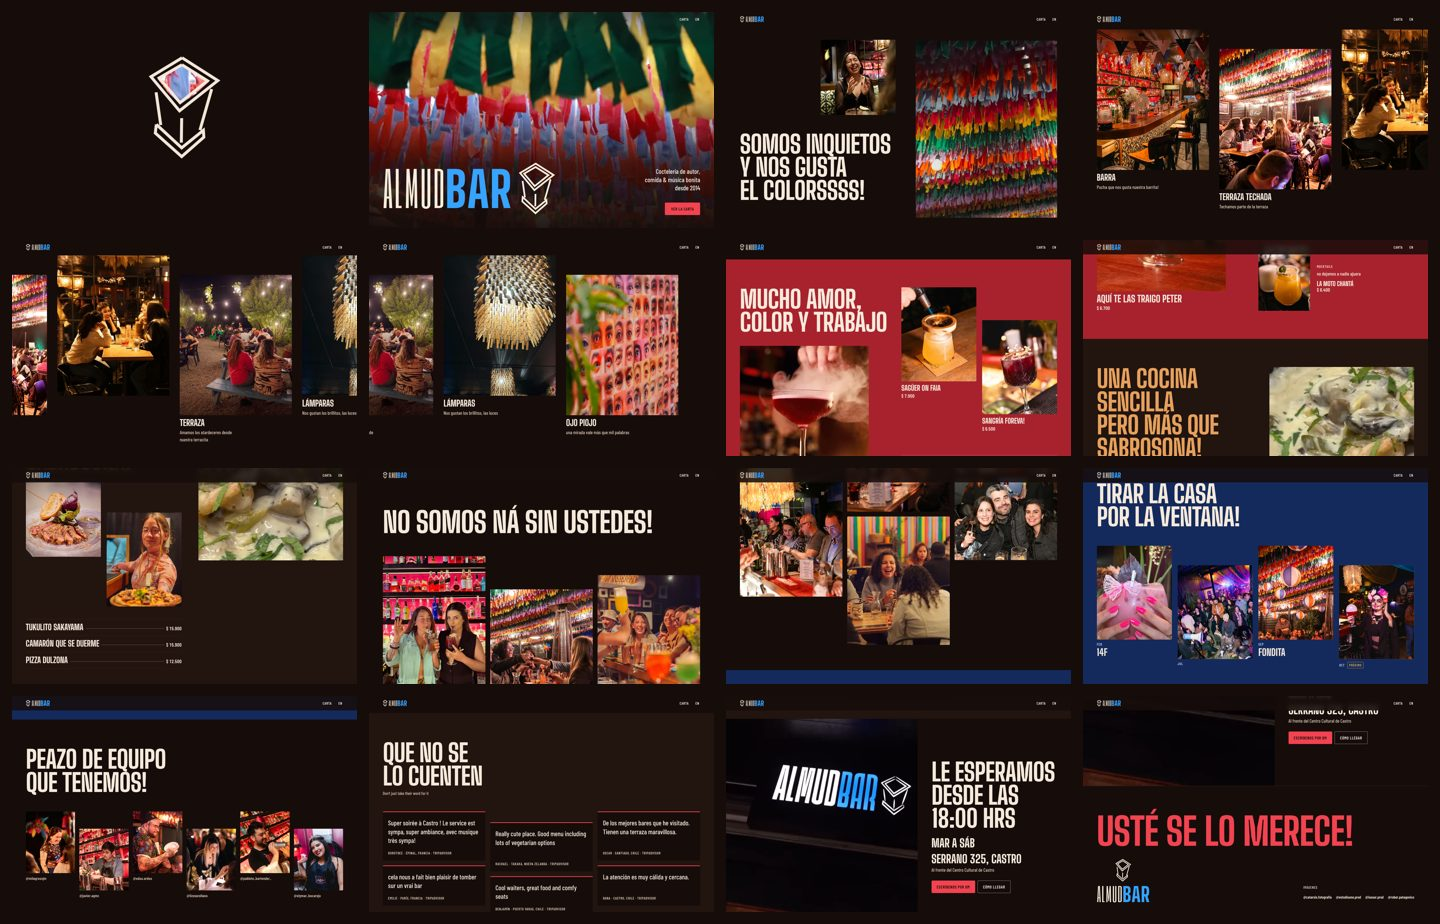
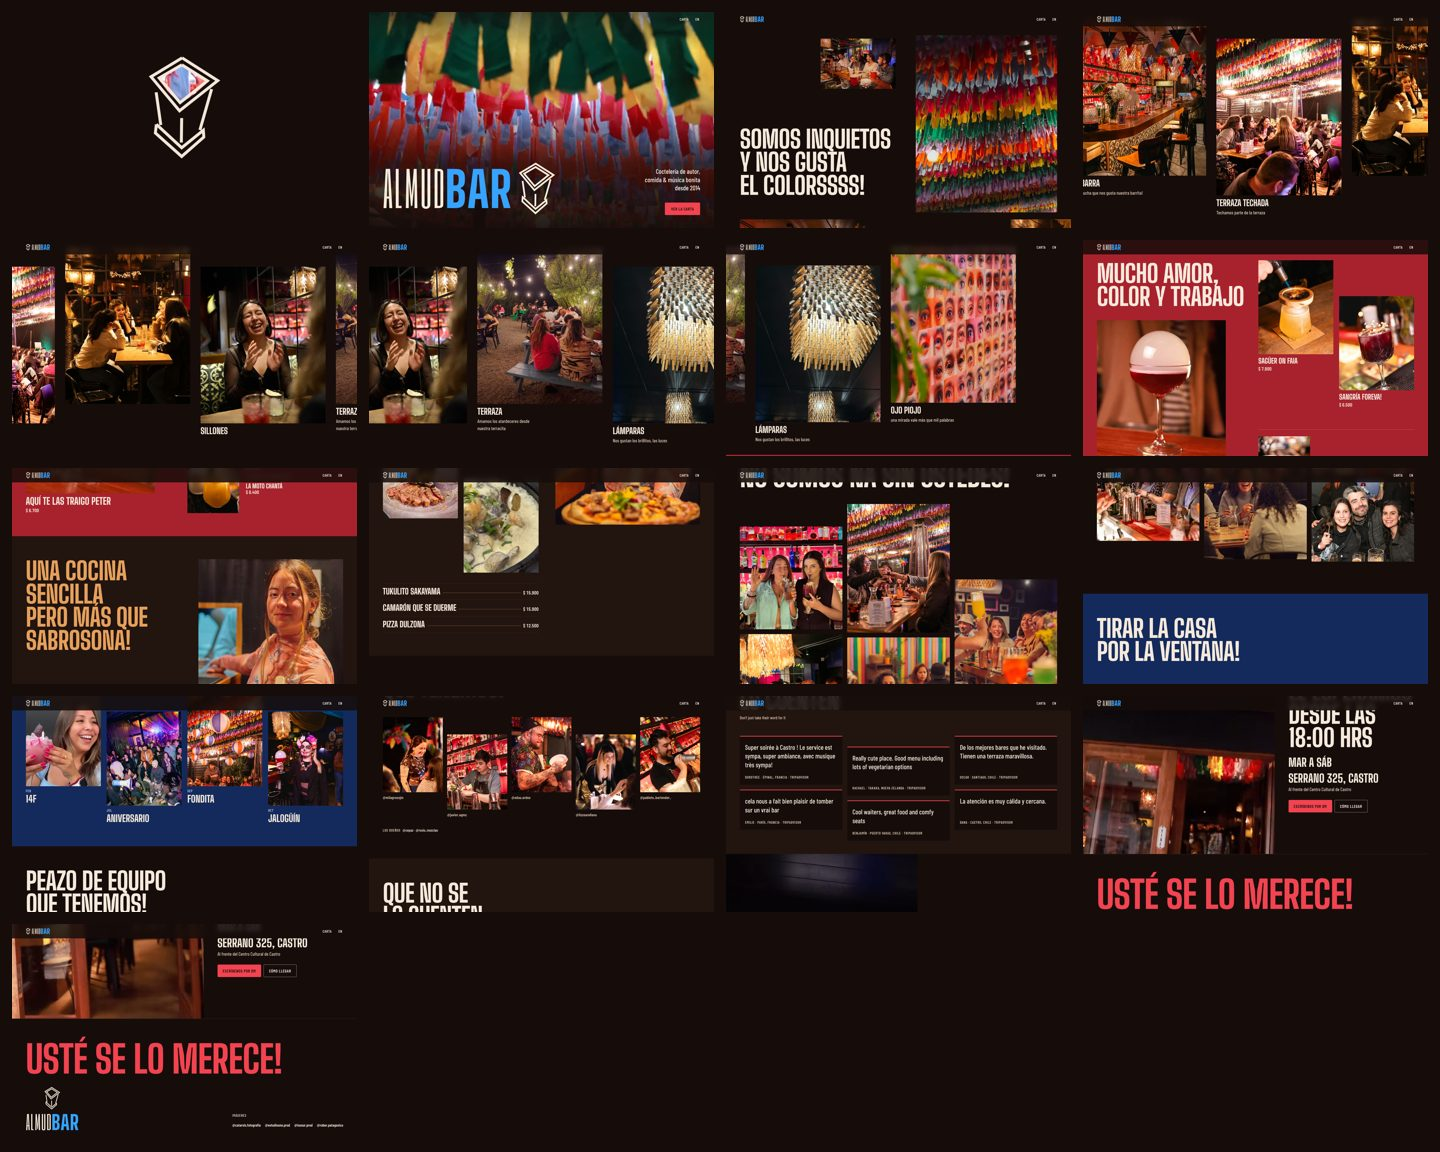
v3 fase 8: cambios del juicio de Carmen aplicados al boceto
Claude-Session: https://claude.ai/code/session_01R7WACHHVHZEdG4bayoWhor

diff --git a/css/v3/site.css b/css/v3/site.css
@@ -110,12 +110,12 @@ html[lang="en"] .gloss--i{display:inline}
 .rin__c{padding-top:14px}
 .rin__n{font:800 30px/1 var(--f-display);text-transform:uppercase;letter-spacing:-.005em}
 .rin__l{margin-top:6px;color:var(--papel-2);max-width:30ch}
-@media (min-width:768px){
+@media (min-width:768px){.rin{flex-basis:44vw}}
+@media (min-width:1024px){
   .lugar__head{grid-template-columns:repeat(12,minmax(0,1fr));column-gap:24px;align-items:end}
   .lugar__txt{grid-column:1/8;grid-row:1;padding-bottom:6vh}
   .lugar__x{display:block;grid-column:4/7;grid-row:1;align-self:start;width:100%;margin-top:-4vh}
   .lugar__v{grid-column:8/13;grid-row:1;max-height:82vh;width:auto;justify-self:end;height:82vh}
-  .rin{flex-basis:44vw}
 }
 @media (min-width:1024px){
   .gs .rincones{height:calc(100vh + 7 * 62vh + 6 * 3vw + 2 * var(--gut) - 100vw + 12vw);margin-top:0;padding-bottom:0}
@@ -169,7 +169,8 @@ html[lang="en"] .gloss--i{display:inline}
 .menu__n{font:800 26px/1.05 var(--f-display);text-transform:uppercase}
 .menu i{flex:1;min-width:16px;border-bottom:2px dotted rgba(229,160,92,.6);transform:translateY(-6px)}
 .menu a:hover .menu__n{color:var(--ambar)}
-@media (min-width:768px){
+@media (min-width:768px) and (max-width:1023px){.comida__v{width:70%}}
+@media (min-width:1024px){
   .comida__g{grid-template-columns:repeat(12,minmax(0,1fr));column-gap:24px;row-gap:0;align-items:start}
   .comida__head{grid-column:1/7;grid-row:1;margin-bottom:48px}
   .comida__v{grid-column:8/13;grid-row:1/4;height:84vh;width:auto;justify-self:end}
@@ -183,7 +184,7 @@ html[lang="en"] .gloss--i{display:inline}
 .quien{background:var(--noche);padding-block:var(--sec);overflow:clip}
 .quien__g{display:grid;grid-template-columns:1fr 1fr;gap:10px;padding:40px var(--gut) 0}
 .col{display:grid;gap:10px;align-content:start}
-.col--2{margin-top:56px}
+.col--2{margin-top:24px}
 .col--3{display:none}
 @media (min-width:768px){
   .quien .ttl{font-size:clamp(72px,8.4vw,120px);max-width:none}

diff --git a/public/css/v3/site.css b/public/css/v3/site.css
@@ -110,12 +110,12 @@ html[lang="en"] .gloss--i{display:inline}
 .rin__c{padding-top:14px}
 .rin__n{font:800 30px/1 var(--f-display);text-transform:uppercase;letter-spacing:-.005em}
 .rin__l{margin-top:6px;color:var(--papel-2);max-width:30ch}
-@media (min-width:768px){
+@media (min-width:768px){.rin{flex-basis:44vw}}
+@media (min-width:1024px){
   .lugar__head{grid-template-columns:repeat(12,minmax(0,1fr));column-gap:24px;align-items:end}
   .lugar__txt{grid-column:1/8;grid-row:1;padding-bottom:6vh}
   .lugar__x{display:block;grid-column:4/7;grid-row:1;align-self:start;width:100%;margin-top:-4vh}
   .lugar__v{grid-column:8/13;grid-row:1;max-height:82vh;width:auto;justify-self:end;height:82vh}
-  .rin{flex-basis:44vw}
 }
 @media (min-width:1024px){
   .gs .rincones{height:calc(100vh + 7 * 62vh + 6 * 3vw + 2 * var(--gut) - 100vw + 12vw);margin-top:0;padding-bottom:0}
@@ -169,7 +169,8 @@ html[lang="en"] .gloss--i{display:inline}
 .menu__n{font:800 26px/1.05 var(--f-display);text-transform:uppercase}
 .menu i{flex:1;min-width:16px;border-bottom:2px dotted rgba(229,160,92,.6);transform:translateY(-6px)}
 .menu a:hover .menu__n{color:var(--ambar)}
-@media (min-width:768px){
+@media (min-width:768px) and (max-width:1023px){.comida__v{width:70%}}
+@media (min-width:1024px){
   .comida__g{grid-template-columns:repeat(12,minmax(0,1fr));column-gap:24px;row-gap:0;align-items:start}
   .comida__head{grid-column:1/7;grid-row:1;margin-bottom:48px}
   .comida__v{grid-column:8/13;grid-row:1/4;height:84vh;width:auto;justify-self:end}
@@ -183,7 +184,7 @@ html[lang="en"] .gloss--i{display:inline}
 .quien{background:var(--noche);padding-block:var(--sec);overflow:clip}
 .quien__g{display:grid;grid-template-columns:1fr 1fr;gap:10px;padding:40px var(--gut) 0}
 .col{display:grid;gap:10px;align-content:start}
-.col--2{margin-top:56px}
+.col--2{margin-top:24px}
 .col--3{display:none}
 @media (min-width:768px){
   .quien .ttl{font-size:clamp(72px,8.4vw,120px);max-width:none}

diff --git a/brand/art-direction-v3.md b/brand/art-direction-v3.md
@@ -42,7 +42,7 @@ Duración total ≈ 2,6 s. Con `prefers-reduced-motion` o sin JS no hay intro: l
 
 ## Ritmo pantalla por pantalla
 
-Alto medido: celular 390×844 ≈ **11,5 pantallas**; escritorio 1440×900 ≈ 14,7 (incluye el recorrido de la galería sticky).
+Alto medido: celular 390×844 ≈ **10,5 pantallas**; escritorio 1440×900 ≈ 15,3 (incluye el recorrido de la galería sticky).
 
 ### Celular (390 px)
 
@@ -83,12 +83,12 @@ Alto medido: celular 390×844 ≈ **11,5 pantallas**; escritorio 1440×900 ≈ 1
 ┌──────────────────────┐ 6 EVENTOS · tinta + fotos · ~1 pant.
 │ TIRAR LA CASA POR LA │
 │ VENTANA!             │ 2×2: FEB 14F · JUL ANIVERSARIO ·
-│ [14F][Aniv.]         │ SEP FONDITA · OCT JALOGÜÍN [PRÓXIMO dorado]
-│ [Fondita][Jalogüín★] │
+│ [14F][Aniv.]         │ SEP FONDITA · OCT JALOGÜÍN (solo mes + nombre)
+│ [Fondita][Jalogüín]  │
 └──────────────────────┘
 ┌──────────────────────┐ 7 EQUIPO · noche · ~0,8 pant.
-│ PEAZO DE EQUIPO QUE  │ swipe de 6 retratos 4:5 con su @
-│ TENEMOS!  [■][■]→    │
+│ PEAZO DE EQUIPO QUE  │ swipe de 5 retratos 4:5 con su @
+│ TENEMOS!  [■][■]→    │ LOS DUEÑOS @cepaz · @rusio_mezclao
 └──────────────────────┘
 ┌──────────────────────┐ 8 RESEÑAS · noche-2 · ~0,8 pant.
 │ QUE NO SE LO CUENTEN │ + glosa EN siempre visible
@@ -131,8 +131,8 @@ Alto medido: celular 390×844 ≈ **11,5 pantallas**; escritorio 1440×900 ≈ 1
            │ [tukulito][pizza ↓]   │                   │
            │ lista carta 3 ítems   │                   │
 5 CON QUIÉN  titular a todo el ancho + 3 columnas a 3 velocidades
-6 EVENTOS    tinta · 4 tarjetas, pares bajan 9vh · próximo en dorado
-7 EQUIPO     6 retratos en fila, pares bajan 8vh
+6 EVENTOS    tinta · 4 tarjetas, pares bajan 9vh · solo mes + nombre
+7 EQUIPO     5 retratos en fila + línea de dueños, pares bajan 8vh
 8 RESEÑAS    grilla 3×2, la columna del medio baja 5vh
 9 DÓNDE    ┌───────────────────────────┬─────────────────┐
            │ loop letrero (100vh)      │ LE ESPERAMOS…   │
@@ -149,7 +149,7 @@ Alto medido: celular 390×844 ≈ **11,5 pantallas**; escritorio 1440×900 ≈ 1
 | 3 | Tragos | muro | papel, muro-2 | `tragos-humo`, `carta-saguer`, `carta-sangria`, `carta-moto` |
 | 4 | Comida | noche-2 | ámbar (titular y puntos) | `comida-cazuela`, `carta-tukulito`, `comida-pizza` |
 | 5 | Con quién | noche | — | 6 fotos `con-quien-*` (4 en celular) |
-| 6 | Eventos | tinta (siempre con foto) | dorado (próximo) | `eventos-14f`, `-12-anos`, `-fondita`, `-jaloguin` |
+| 6 | Eventos | tinta (siempre con foto) | tinta-2 (mes) | `eventos-14f`, `-12-anos`, `-fondita`, `-jaloguin` |
 | 7 | Equipo | noche | papel-2 (@) | 6 retratos `equipo-*` |
 | 8 | Reseñas | noche-2 | muro-rosa (filete) | — |
 | 9 | Dónde | noche | muro-rosa (DM) | `donde-letrero` |
@@ -158,11 +158,23 @@ Alto medido: celular 390×844 ≈ **11,5 pantallas**; escritorio 1440×900 ≈ 1
 ## Tipo y botones (Carmen P)
 Titulares Big Shoulders 800 mayúsculas, 44 px en celular (≤ 3 líneas), tope 120 px en escritorio, lh 0,93. Texto Barlow Condensed 500 18/20 px · 1,5; nada bajo 16 px; rótulos 600 15 px +0,06 em; precios 600 20 px en papel. Botones radio 4 px, 600 17 px, 52 px de alto: **Ver la carta** (portada, sola y a la derecha) · **Escríbenos por DM** y **Cómo llegar** (solo en Cuándo y dónde). Sin RESERVAR.
 
+## Ronda tras el juicio de Carmen (15/20)
+- Eventos: sin «Próximo»; el calendario es solo mes + nombre (recuerdo, en pasado).
+- Acentos: la máscara de cada palabra tiene aire arriba (padding .26 em) y queda `overflow:visible` al terminar; revisado a 320/390/768/1440.
+- Peter: en celular, loop al 62 % con nombre y precio al lado (la copa entera cabe en una pantalla con el titular).
+- Comida: la pizza servida P036 es la imagen principal; la cazuela queda como loop chico, junto al Tukulito.
+- 14F: cuadro de 18,6 s del reel «El 14F estuvo hermoso!» (C3tFEcvJ80x): una clienta riendo con el trago. Reprocesado con `tools/media_v3.py`.
+- El lugar: Sillones (P114) entra al carrusel entre Salón y Terraza, con el rótulo [UI] ‹Sillones› / “Lounge”. La masa del encabezado de escritorio pasa a ser el muro de cuadros (P012).
+- Con quién: la primera foto (P254) va cuadrada y anclada abajo, sin la franja de repisa. En escritorio las columnas se compensan para que terminen parejas.
+- Equipo: sale @elymar_bocarejo (solo hay foto disfrazada). Bajo el carrusel va ‹Los dueños› @cepaz · @rusio_mezclao.
+- Ritmo: padding de sección de 72 px en celular y 96 px en escritorio; El lugar y Comida pasan a dos columnas recién desde 1024 px.
+- Portada celular: el loop arranca en 1,5 s, con el cartelito ALMUD BAR sobre el muro rosa (900 px, 1,35 MB).
+- La portada sigue con logo, claim y ‹Ver la carta›, sin horario ni dirección (decisión del cliente).
+
 ## Decisiones y pendientes
 - Portada: solo logo, claim y ‹Ver la carta› (corrección del cliente); horario y dirección viven en Cuándo y dónde.
 - Comida: las fotos son ambiente y la **lista** nombra los platos, porque no hay foto propia confirmada de la Pizza dulzona (no se inventa la relación foto-plato).
 - Créditos del pie: solo autores usados (@catarsis.fotografia, @estudiouno.prod, @isosur.prod, @rober.patagonico). Salen @tamillanquileo y @dosistudio (sus imágenes no se usan).
 - Mapa embebido: no va en el boceto; ‹Cómo llegar› abre Google Maps. Si se quiere el mapa al tocar, se agrega en fase 14.
-- `equipo-elymar` está **por confirmar** con Carmen (foto con disfraz).
 - El `<video>` de portada oculto (la otra variante) queda sin fuente y en pausa a propósito: no se descarga.
 - EN: etiquetas [UI] cambian; los literales quedan en español con glosa debajo; clave `almud-idioma`.
